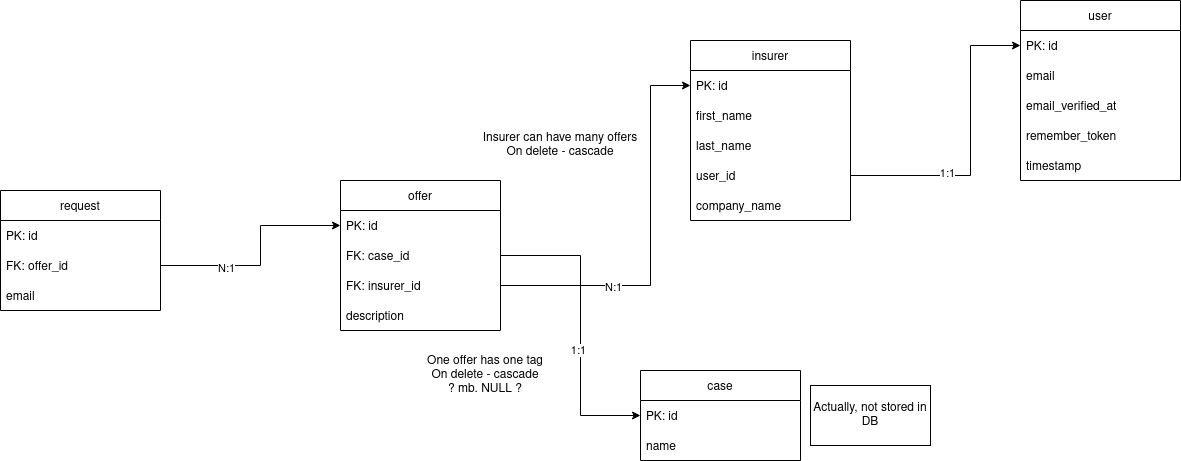
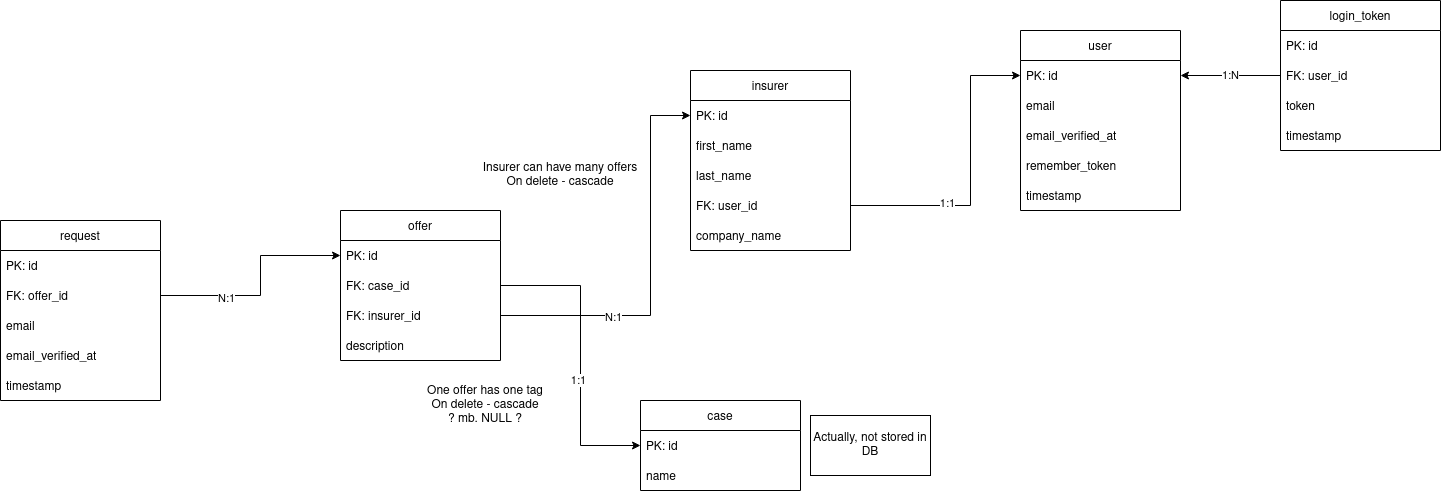
Offer request related changes

diff --git a/bruh/public/css/login.css b/bruh/public/css/login.css
@@ -65,7 +65,7 @@ p { margin: 0; }
     text-align: left;
 }
 
-.captcha-title > h3 {
+.captcha-title > h4 {
     margin: 0.1rem 0 0.1rem 0;
 }
 

diff --git a/bruh/app/Http/Controllers/WebController.php b/bruh/app/Http/Controllers/WebController.php
@@ -4,6 +4,7 @@ namespace App\Http\Controllers;
 
 use App\Models\Insurer;
 use App\Models\Offer;
+use App\Models\OfferRequest;
 use App\Services\Interfaces\SearchServiceInterface;
 use Illuminate\Contracts\Foundation\Application;
 use Illuminate\Contracts\View\Factory;
@@ -18,6 +19,7 @@ class WebController extends Controller
         return view('index',[
             'insurers_count' => Insurer::count(),
             'offers_count' => Offer::count(),
+            'requests_count' => OfferRequest::count(),
         ]);
     }
 

diff --git a/bruh/app/Faker/OfferProvider.php b/bruh/app/Faker/OfferProvider.php
@@ -77,7 +77,7 @@ class OfferProvider extends Base
             $issueCaseId = $this->issueCase();
         }
 
-        $caseName = Offer::getCaseNameById($issueCaseId);
+        $caseName = Offer::caseNameById($issueCaseId);
 
         return self::$descriptionValues[$caseName][array_rand(self::$descriptionValues[$caseName], 1)];
     }
